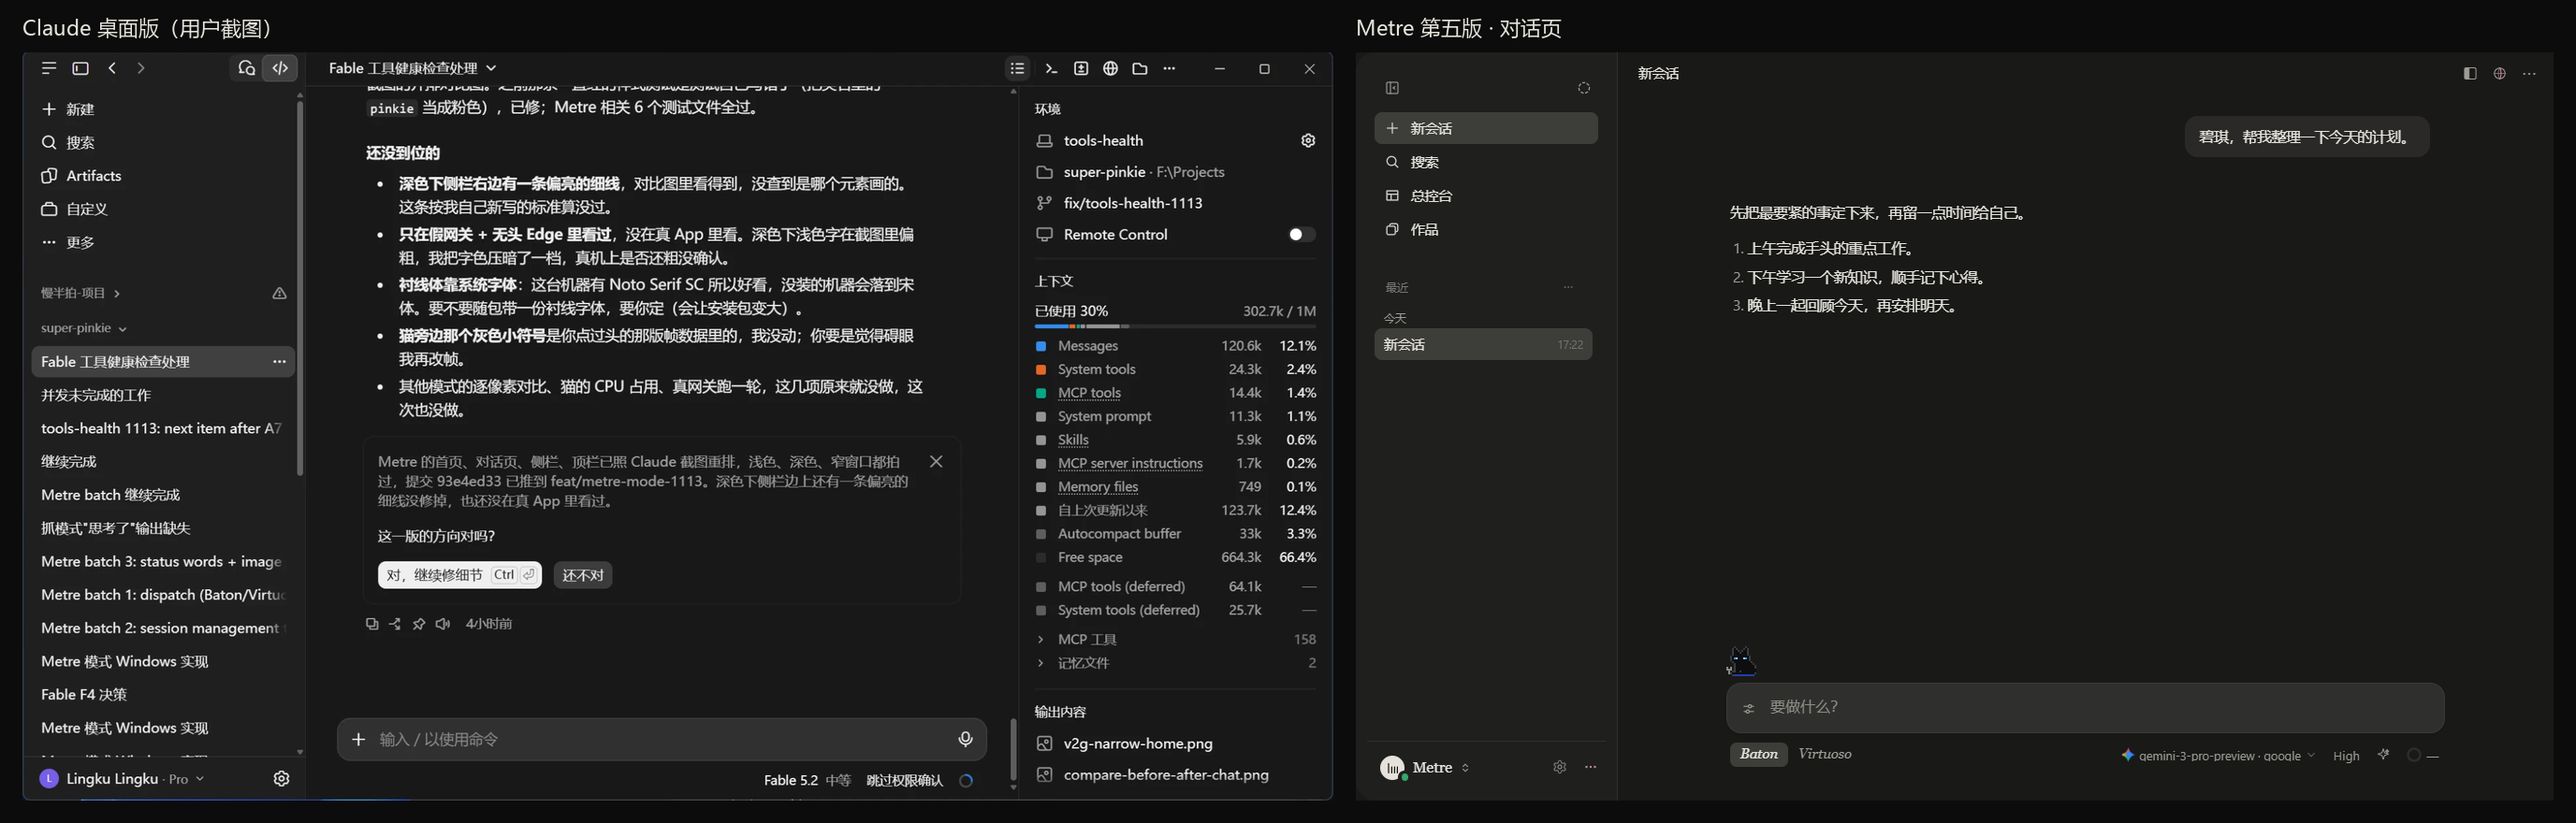
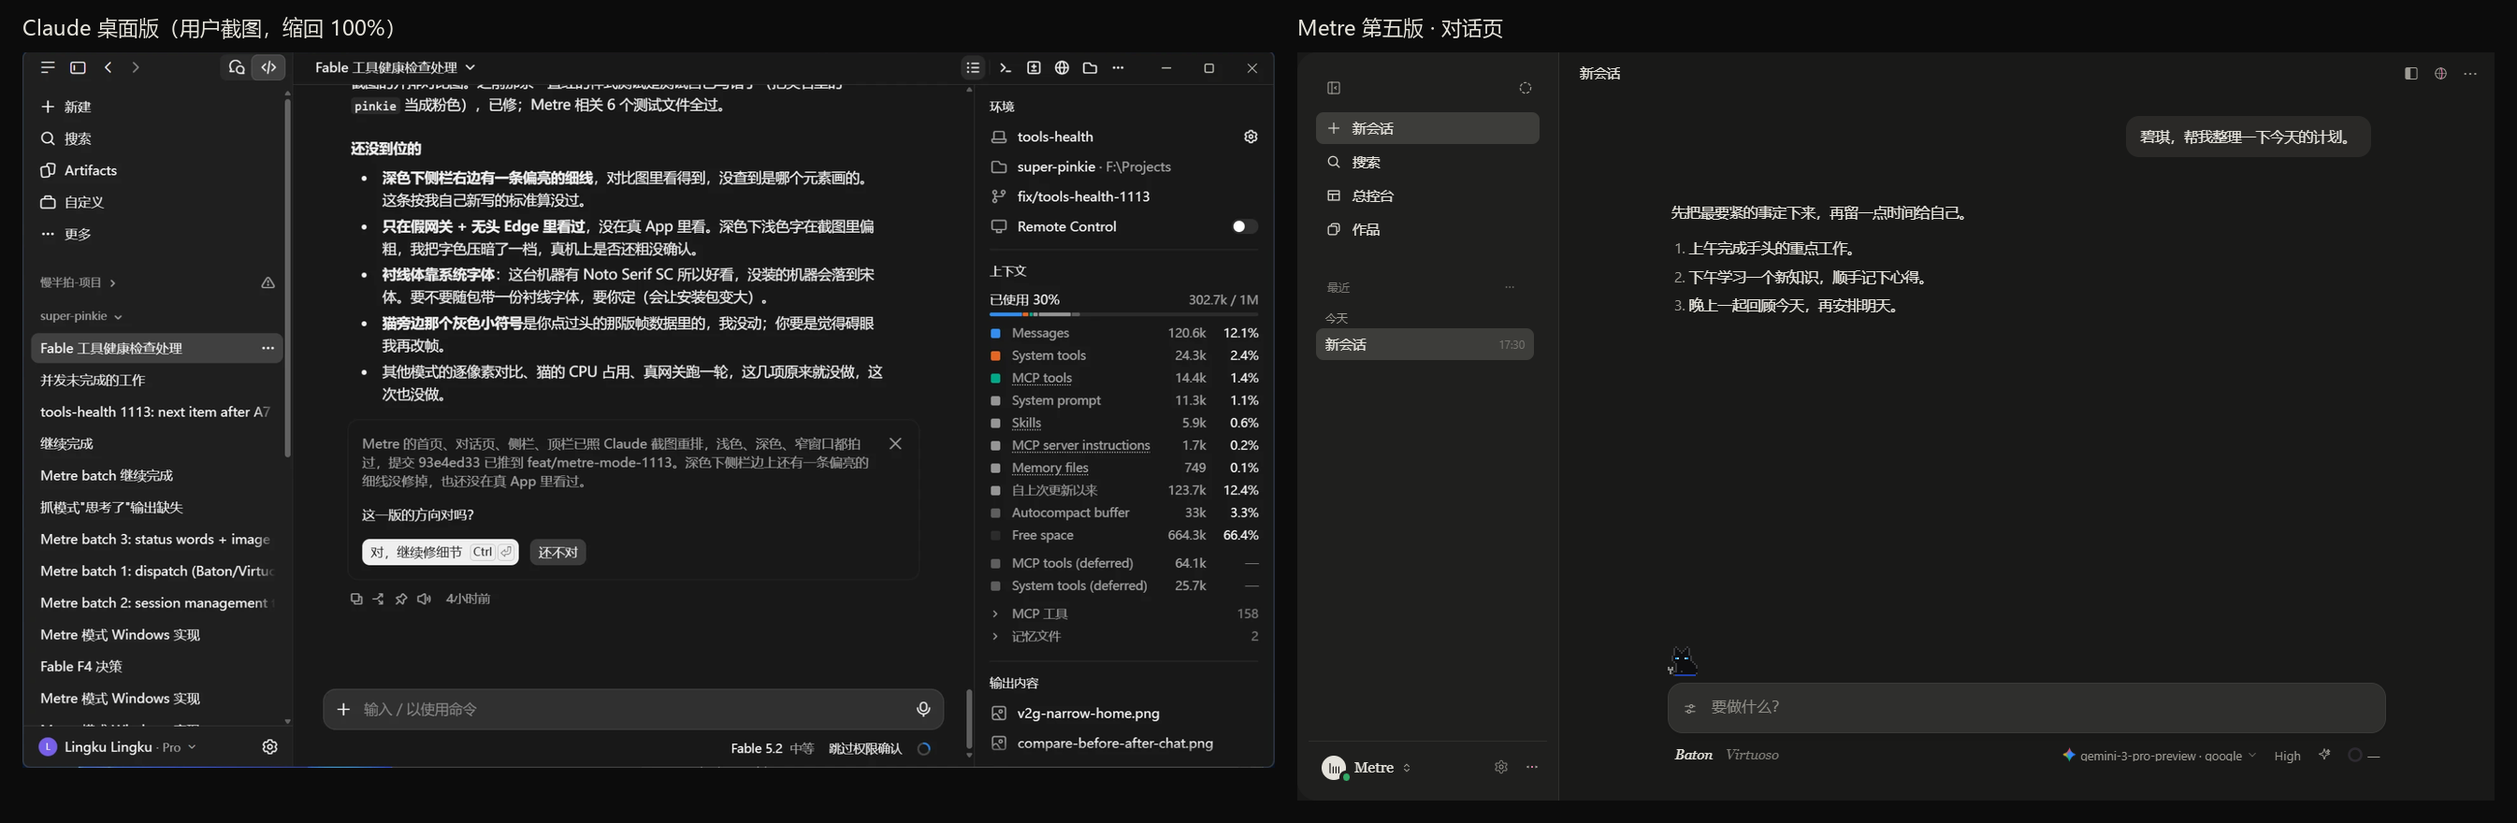
metre mode batch 4 v5: home page proportions re-laid against the Claude screenshot — four blocks anchored from the bottom with the composer near mid-height, prompt no wider than the composer, plain controls row; comparison images redone at one scale

diff --git a/ui/injections/laolao-metre-skin.css b/ui/injections/laolao-metre-skin.css
@@ -1166,3 +1166,26 @@ html:not([data-laolao-mode="metre"]) .pk-metre-title,
 html[data-laolao-mode="metre"][data-metre-board="open"] .pk-metre-title { display: none !important; }
 /* 8. 首页「继续之前的工作」右边不写碧琪的模式名，只留时间 */
 html[data-laolao-mode="metre"]:not(#_m1):not(#_m2) .laolao-startup-home__item-mode { display: none !important; }
+
+/* ---------- 第五版 · 首页比例（Fable 11-15）：用户看了对比图，原话：「两个页面比例排版怎么明显看不出来？」「Metre的简直非常乱」 ----------
+ * 和 claude-home-dark 逐项量过后，乱在三处：
+ *   a. 整块内容顶在上面、下面空一大片。截图里输入框上沿在窗口高度的 49.7%，下面的卡片一直排到窗口底。
+ *      → 首页只留「引导语 / 输入框 / 一排控件 / 看板卡片」四块，从下往上排；「继续之前的工作」不再显示（侧栏「最近」已经有），
+ *        它那个节点留作底下的一小段空白，不显示。1280×800 时输入框上沿在 47.6%。
+ *   b. 引导语（760 宽）比输入框（656 宽）宽，两边对不齐。→ 引导语不超过输入框那一栏，字 28px。
+ *   c. 输入框下面一排有六样东西、四种样子。→ 左边 Baton / Virtuoso 只用字色区分，不要底色块；右边是模型、强度两样字加一个图标；
+ *      「上下文」那个圈在首页没有内容（只有一个「—」），进了对话才出现。 */
+html[data-laolao-mode="metre"]:not(#_m1):not(#_m2) .laolao-startup-home__recent { visibility: hidden !important; flex: 0.05 1 16px !important; min-height: 16px !important; margin: 0 !important; padding: 0 !important; overflow: hidden !important; pointer-events: none !important; }
+html[data-laolao-mode="metre"]:not(#_m1):not(#_m2) .pk-metre-quick { margin-top: 30px !important; }
+html[data-laolao-mode="metre"]:not(#_m1):not(#_m2) .pk-metre-prompt { max-width: var(--laolao-home-col) !important; }
+html[data-laolao-mode="metre"]:not(#_m1):not(#_m2) .pk-metre-prompt__text { font-size: 28px !important; line-height: 1.4 !important; }
+@media (max-height: 640px) {
+html[data-laolao-mode="metre"]:not(#_m1):not(#_m2) .pk-metre-quick { display: none !important; }
+}
+html[data-laolao-mode="metre"]:not(#_m1):not(#_m2) .agent-chat__input .pinkie-baton { gap: 14px !important; padding: 0 !important; margin-left: 8px !important; }
+html[data-laolao-mode="metre"]:not(#_m1):not(#_m2) .agent-chat__input .pinkie-baton__seg,
+html[data-laolao-mode="metre"]:not(#_m1):not(#_m2) .agent-chat__input .pinkie-baton__seg[aria-checked="true"] { padding: 5px 0 !important; background: transparent !important; box-shadow: none !important; }
+html[data-laolao-mode="metre"]:not(#_m1):not(#_m2) .agent-chat__input .pinkie-baton__seg[aria-checked="true"] { color: var(--metre-text) !important; }
+html[data-laolao-mode="metre"]:not(#_m1):not(#_m2) .agent-chat__input .pinkie-baton__seg:not([aria-checked="true"]) { color: var(--metre-muted) !important; opacity: 0.75 !important; }
+html[data-laolao-mode="metre"]:not(#_m1):not(#_m2) .agent-chat__input :is(.chat-controls__inline-select-label, .pinkie-external-tier) { font-size: 14px !important; }
+html[data-laolao-mode="metre"]:not(#_m1):not(#_m2)[data-laolao-startup-home="1"] .agent-chat__input .laolao-context-viewer { display: none !important; }

diff --git a/briefs/metre-mode-1113/PROGRESS.md b/briefs/metre-mode-1113/PROGRESS.md
@@ -303,3 +303,15 @@
 - **没做 / 没验证**：没在真 App（WebView2）里看；假网关里首页「继续之前的工作」列的是哪个模式的会话没查（`laolao-startup-home.js` 的 `mode()` 不认识 metre，会落到 chat——**真网关里 Metre 首页可能列出唠嗑模式的会话，要查**）；对话页输入框打多行字时工具图标和字的位置没看；总控台 1000 宽没看；A4-2 逐像素对比、A4-7 CPU、真网关跑一轮仍没做。
 - **抓图办法**：Control UI 副本和脚本在本次会话的草稿目录 `F:/tmp/claude/b7d526b71e122694/26b6c603-70c2-4929-a128-b7e7bc788e7b/scratchpad`（`cui/`、`shoot.sh <目录> [l d bl bd]`、`compare.py` 拼对比图、`p2.js` 量位置的探针）。
 - 用户还没看这一版。
+
+### 批 4 第五版 · 首页比例（Windows，Fable，11-15）
+
+- **起因**：用户看了上一节的对比图，原话：「两个页面比例排版怎么明显看不出来？」「Metre的简直非常乱」。上一节只修了侧栏和细节，首页的比例没对；而且那张对比图是按同一高度拼的，Claude 那边（125% 截图）被放大了约 5%，比例尺不一致。
+- **量出来乱在三处，都改了**（`laolao-metre-skin.css` 末尾「第五版 · 首页比例」一段）：
+  1. 整块内容顶在上面、下面空一大片。现在首页只有四块——引导语、输入框、一排控件、看板卡片——从下往上排，卡片排到窗口底。1280×800 时输入框上沿在窗口高度的 48%（截图 49.7%）。**「继续之前的工作」在 Metre 首页不再显示**（侧栏「最近」已有），那个节点留作底下的一小段空白。窗口高度不到 640 时看板卡片也不显示。
+  2. 引导语（760 宽）比输入框（656 宽）宽。现在引导语不超过输入框那一栏，字 28px。
+  3. 输入框下面一排太杂。Baton / Virtuoso 去掉底色块，只用字色区分；模型、强度的字 14px；「上下文」的圈在首页不显示（那里只有一个「—」），进了对话才有。
+- **对比图重做**：`ref/v5-compare-*.png` 现在把 Claude 截图缩回 100%，两边同一个比例尺。`ref/v5-*.png` 六张重拍。
+- **测试**：`metre-skin-cat` 14、`mode-controls` 4、`composer-tray-and-home-draft` 3、`run-status-ui` 12、`metre-dispatch` 15、`brand-ui` 6，全过。
+- **没做 / 没验证**：没在真 App 里看；820 宽和 640 以下高度的首页在这次改动后没重拍；上一节「没做」的几项照旧。上一节 A4-31（模式名不显示）因为整块不显示了，现在只对其他模式有意义。
+- 用户还没看这一版。

diff --git a/briefs/metre-mode-1113/ACCEPTANCE.md b/briefs/metre-mode-1113/ACCEPTANCE.md
@@ -150,6 +150,8 @@
 - A4-31 首页「继续之前的工作」右边只写时间，不写碧琪的模式名。
 - A4-19‴ 深色明度照截图：侧栏 #1F1F1E、内容区 #191918、输入框 #2F2F2D、选中行 #3D3D3A。
 - A4-28 仍然有效：其他模式的截图和改动前一样。
+- A4-32 首页比例（用户 11-15：「两个页面比例排版怎么明显看不出来？」「Metre的简直非常乱」）：首页只有引导语、输入框、一排控件、看板卡片四块，「继续之前的工作」不显示；1280×800 时输入框上沿在窗口高度的 45%～52%，看板卡片底边离窗口底不超过 40px；引导语不比输入框宽；输入框下面一排左边只有 Baton / Virtuoso（无底色块），右边不超过三样，首页不出现只有「—」的上下文圈。
+- A4-33 并排对比图两边必须是同一个比例尺（Claude 的 125% 截图先缩回 100%）。
 
 ## 批 5 · 总控台
 
